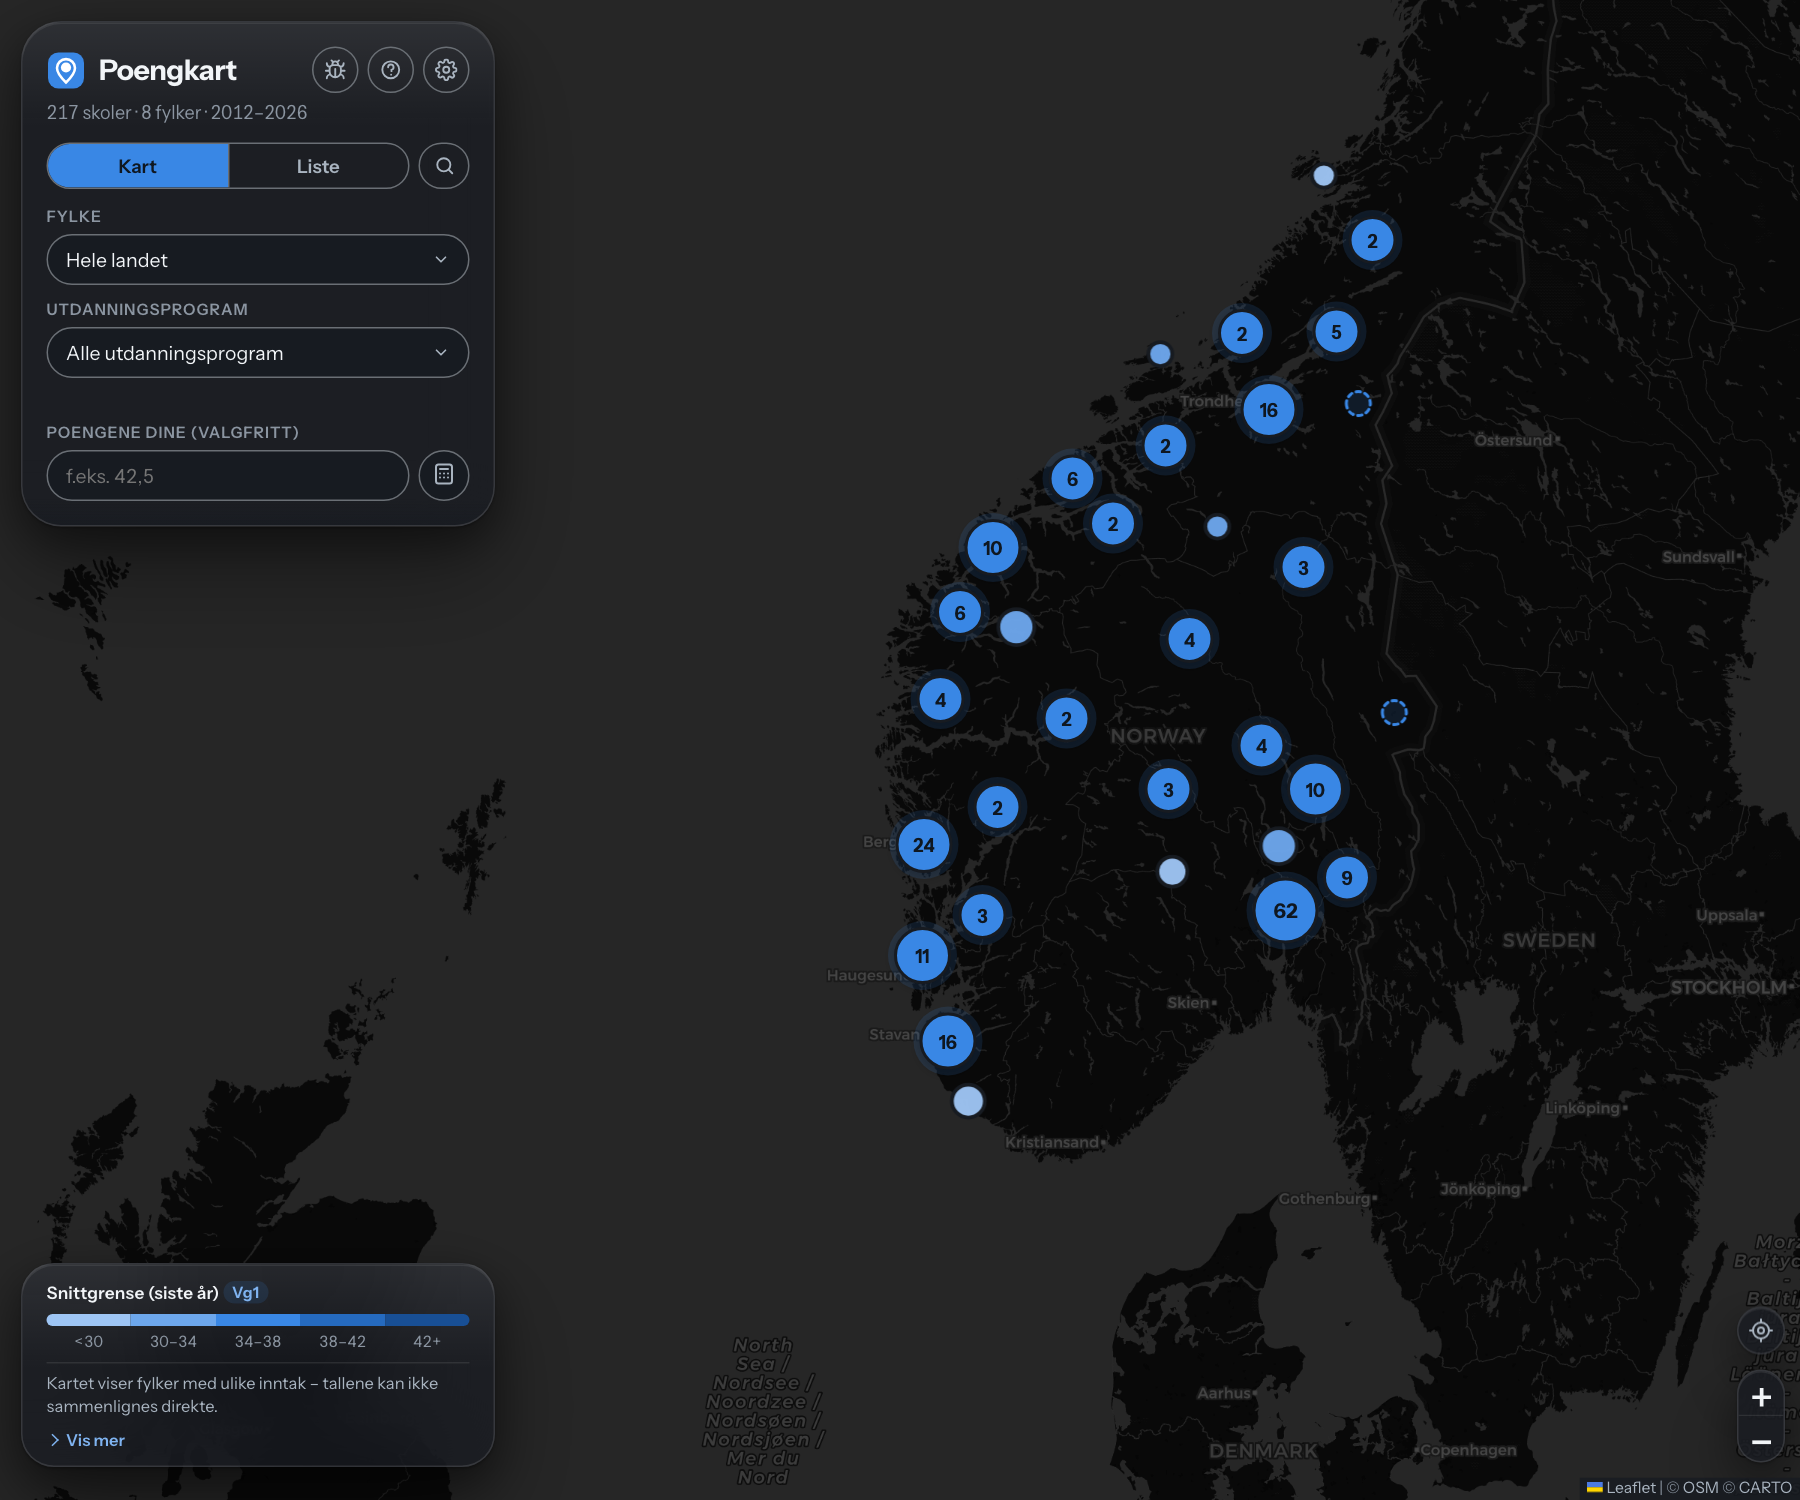
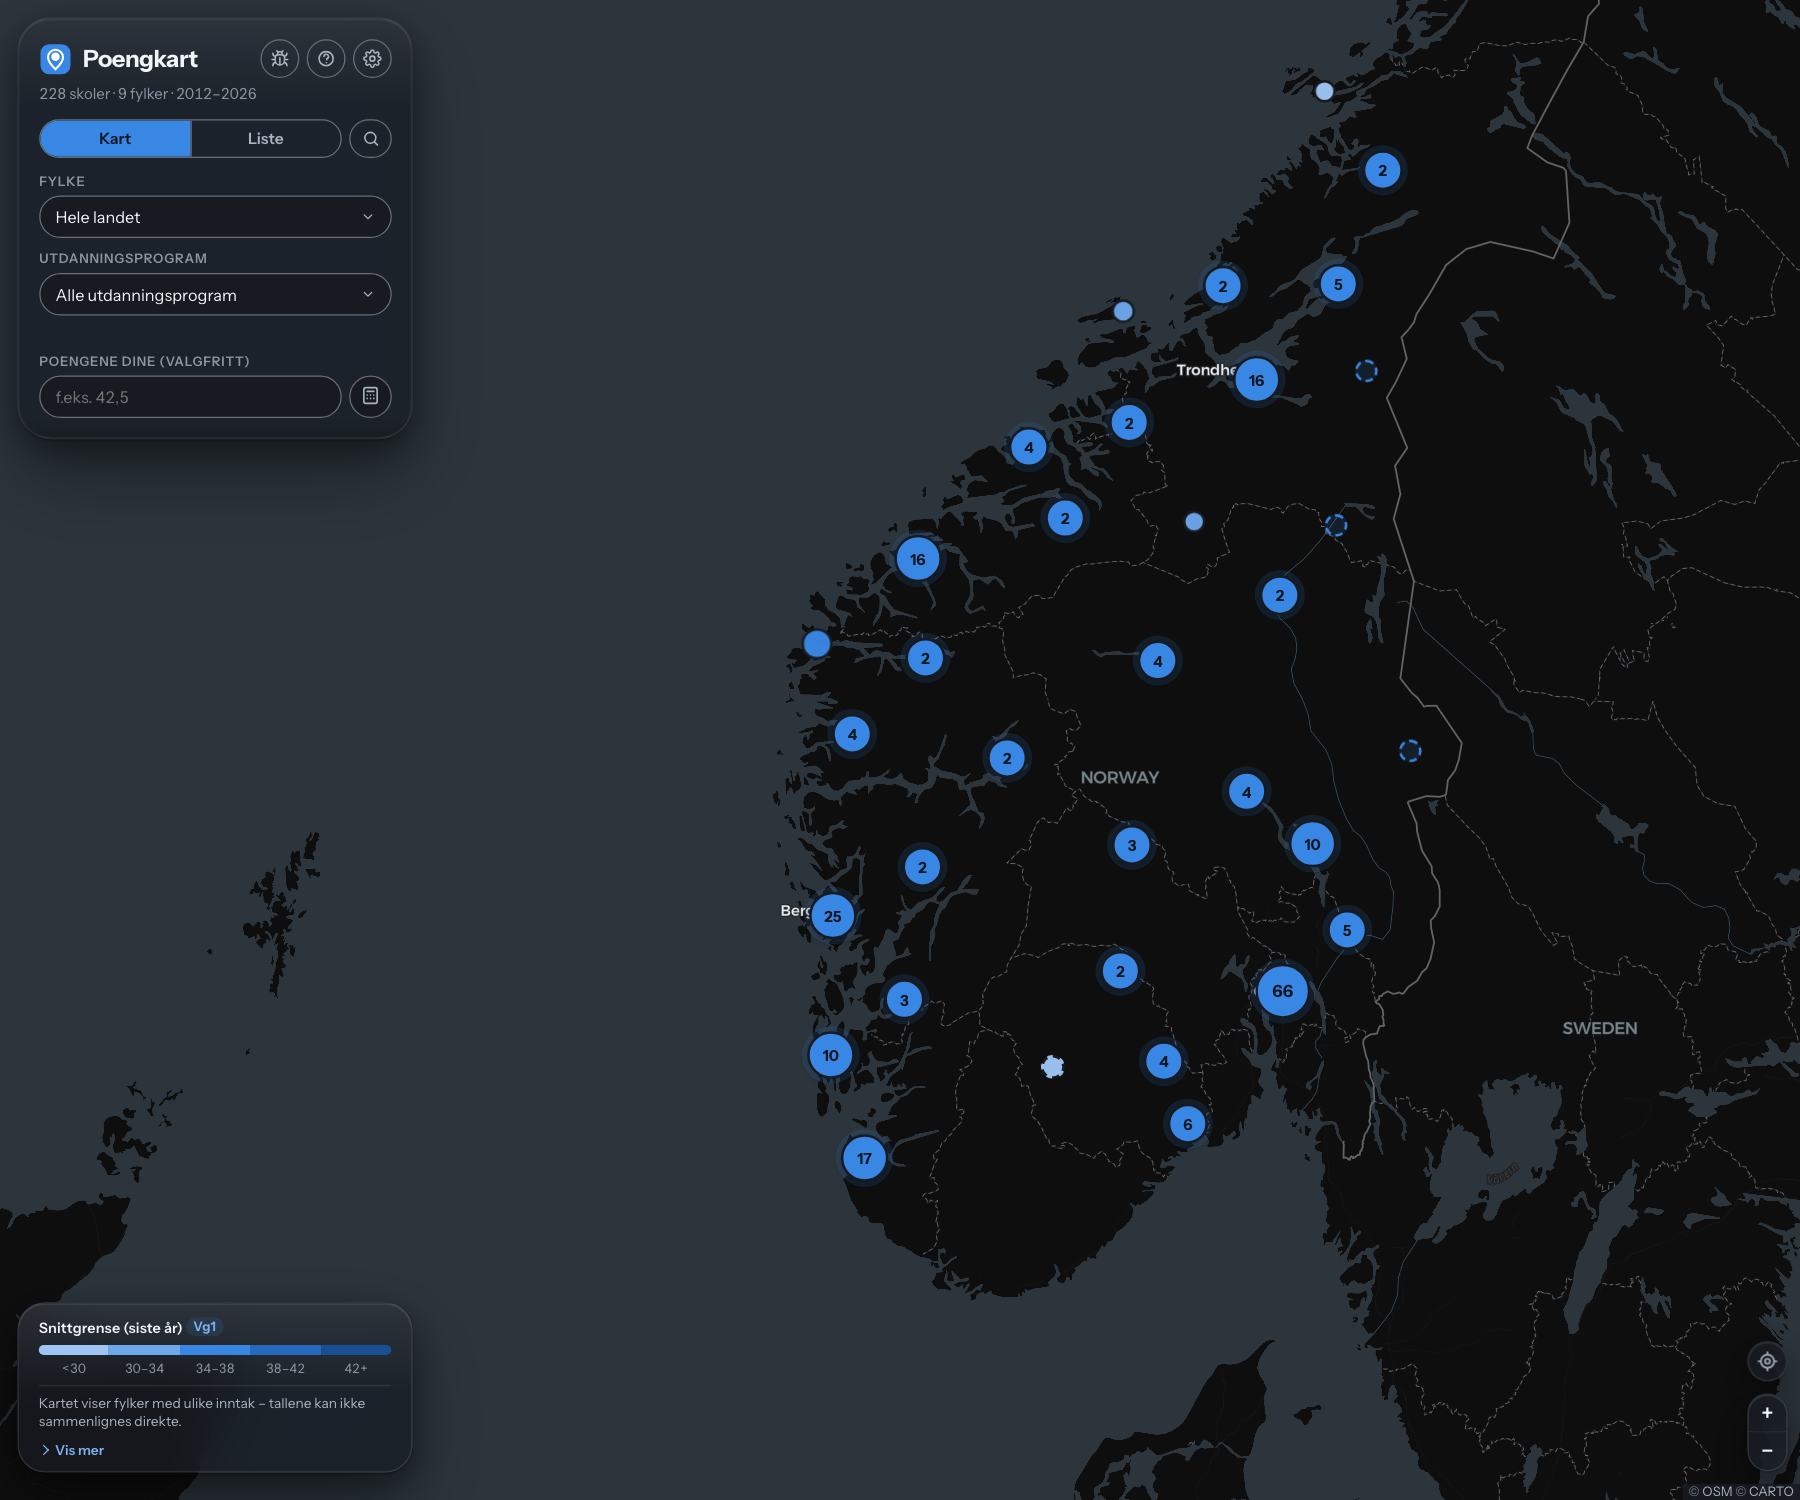
README shows today's data: 228 schools in nine counties, Telemark on the map
Both screenshots were taken before Telemark joined and still showed 217
schools in eight counties on the old Leaflet map; retaken from production at
the same size. The text names the satellite fit, the held_out column and
the dev server's $PORT.

diff --git a/README.md b/README.md
@@ -17,7 +17,8 @@ or released them on request, 2012–2026, in Norwegian and English.
 Type in your points and every school and programme is coloured by your chance
 of a place at the next intake: green likely, amber possible, red unlikely. The
 chance comes from a model fitted on the whole history and backtested year by
-year; [docs/model.md](docs/model.md) explains it and the
+year (Telemark's schools from a separate fit on the county's own figures);
+[docs/model.md](docs/model.md) explains it and the
 [technical report](https://poengkart-no.vercel.app/report) is the full
 write-up. Press + on a programme to build your list of wishes (*ønsker*, the
 ten a vigo application allows), or use the calculator if you do not know your
@@ -35,8 +36,8 @@ npm install
 npm run dev
 ```
 
-Opens on http://localhost:8123. `npm run build` writes the deployable site to
-`web/dist`. Every school has its own page (`/akershus/asker`), prerendered at
+Opens on http://localhost:8123, or on `$PORT` when it is set. `npm run build`
+writes the deployable site to `web/dist`. Every school has its own page (`/akershus/asker`), prerendered at
 build time from `web/public/data/schools.json`, with its own share card
 under `/og/` and an entry in `/sitemap.xml`; links of the old
 `#s=Fylke/Skole` form still open. To rebuild the dataset from the county
@@ -69,8 +70,8 @@ on every push to `main` and on every pull request.
 `web/public/data/schools.json` is what the app reads. `data/` has the same as SQLite
 and CSV: `samples` is every cell with its county, inntak and Grep code,
 `forecasts` the model's expected threshold, spread and fill probability per
-programme, and `model-backtest.csv` every walk-forward forecast behind the
-accuracy claims. The data is published under
+programme (`held_out` marks Telemark's, which the backtest never scores), and
+`model-backtest.csv` every walk-forward forecast behind the accuracy claims. The data is published under
 [NLOD 2.0](https://data.norge.no/nlod/no/2.0); the code is MIT.
 
 Each (school, programme, year) cell is one of:
@@ -95,7 +96,7 @@ thresholds; the county select lists them as *(ingen data)*.
 | Møre og Romsdal | Excel extract from the county's Power BI dashboard, released on request | 2012–2026 | 2. |
 | [Oslo](https://www.oslo.kommune.no/skole-og-utdanning/videregaende-skole/soke-videregaende-skole/poengtabeller-for-videregaende-skoler-i-oslo/) | HTML + PDF, oldest years via school-site PDFs | 2015, 2017–2026 | 1. |
 | [Rogaland](https://www.vilbli.no/nb/rogaland/a/poengsum-og-karakterer-6) | PDF | 2018–2026 | 2. |
-| Telemark | Excel extract released on request: the lowest points of the admitted for every programme, no fill state, so not comparable: outside the model and forecast from its own figures alone | 2024–2026 | not stated |
+| Telemark | Excel extract released on request: the lowest points of the admitted for every programme, no fill state, so not comparable: outside the model, forecast from its own figures alone with the error measured on its own years | 2024–2026 | not stated |
 | [Trøndelag](https://www.vilbli.no/nb/trondelag/a/poengsum-og-karakterer-6) | PDF, per intake region | 2025 | not stated |
 | [Vestland](https://www.vestlandfylke.no/utdanning-og-karriere/elev/soknad-inntak/test-poenggrenser/) | PDF | 2020–2026 | 1. and 3. |
 | ↳ Hordaland, pre-merger | PDF: press releases via the Wayback Machine (1.), the county's full table (3.) | 2017–2019 | 1. and 3. |
